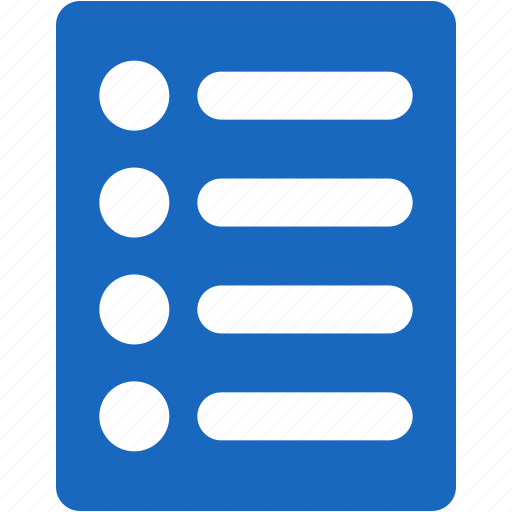
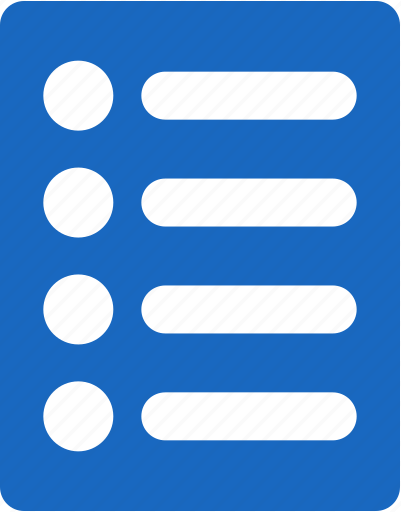
Continue working on the Todo list

diff --git a/react-app/src/components/todoList/Todo.scss b/react-app/src/components/todoList/Todo.scss
@@ -1,0 +1,131 @@
+@import url("https://fonts.googleapis.com/css2?family=Roboto+Slab:wght@100..900&display=swap");
+@import "./mixins.scss";
+
+$white: white;
+$mp0505: 0 5px 0 5px;
+
+
+button {
+  background-color: $white;
+  padding: 0;
+  cursor: pointer;
+}
+
+img {
+  object-fit: contain;
+}
+
+hr {
+  border: 0.5px solid rgb(158, 158, 158);
+}
+
+input[type="checkbox"] {
+  cursor: pointer;
+}
+
+input,
+button {
+  font-family: -apple-system, BlinkMacSystemFont, "Segoe UI", Roboto,
+    "Helvetica Neue", Arial, "Noto Sans", sans-serif;
+  border: none;
+}
+
+.todo {
+  font-family: -apple-system, BlinkMacSystemFont, "Segoe UI", Roboto,
+    "Helvetica Neue", Arial, "Noto Sans", sans-serif;
+  @include todo_styles;
+
+  &__header {
+    @include header_styles;
+  }
+
+  .add-task,
+  .filter {
+    background-color: $white;
+  }
+
+  .add-task {
+    width: 60%;
+    padding: 10px 0 10px 0;
+    margin-bottom: 50px;
+
+    @include df_jcc_aic;
+
+    &__icon {
+      width: 30px;
+      height: 30px;
+      margin-left: 0.5rem;
+    }
+
+    &__text {
+      height: 100%;
+      width: max(100%);
+      margin-left: 20px;
+      padding: 0 20px 0 20px;
+      font-family: "Roboto Slab", serif;
+
+      &:focus {
+        outline: none;
+      }
+    }
+
+    &__btn {
+      margin: 0 10px 0 0;
+      @include df_jcc_aic;
+    }
+  }
+
+  .filter {
+    @include df_aic;
+    justify-content: space-between;
+
+    .filter-buttons {
+      @include df_jcc_aic;
+
+      button {
+        color: rgb(68, 140, 207);
+        margin: $mp0505;
+        padding: $mp0505;
+        border-radius: 3px;
+        font-weight: 600;
+        transition: background-color 0.3s linear;
+
+        &:hover {
+          background-color: rgb(184, 184, 184);
+          transition: background-color 0.5s linear;
+        }
+      }
+    }
+  }
+
+  .task-list {
+    &__item {
+      padding-right: 8px;
+      @include df_aic;
+
+      .task-title {
+        margin-left: 10px;
+        overflow-y: scroll;
+        -ms-overflow-style: none; /* IE and Edge */
+        scrollbar-width: none; /* Firefox */
+
+        &::-webkit-scrollbar {
+          display: none;
+        }
+      }
+
+      .delete-btn {
+        opacity: 0.4;
+        margin-left: auto;
+        transition: all 0.3s linear;
+        @include df_aic;
+      }
+
+      &:hover {
+        .delete-btn {
+          opacity: 1;
+        }
+      }
+    }
+  }
+}

diff --git a/react-app/src/components/todoList/Todo-add-task.jsx b/react-app/src/components/todoList/Todo-add-task.jsx
@@ -4,20 +4,21 @@ const TodoAddTask = () => {
   return (
     <div className="add-task">
       <img
-        src="https://cdn2.iconfinder.com/data/icons/toolbar-signs-2/512/list_text_document_book_schedule-512.png"
+        src={require("../../images/todoList.png")}
         alt="Todo list icon"
-        style={{ width: "40px", height: "30px" }}
+        className="add-task__icon"
       />
 
       <input
         type="text"
-        className="add-text"
+        className="add-task__text"
+        id="add-task-text"
         placeholder="Enter your next task"
       />
 
-      <button className="add-btn">
+      <button className="add-task__btn">
         <img
-          src="https://banner2.cleanpng.com/20180409/gye/kisspng-computer-icons-symbol-icon-design-google-plus-5acb0027158c40.8641644415232532870883.jpg"
+          src={require("../../images/add-task_icon.jpg")}
           alt="white plus icon"
           style={{ width: "20px", height: "20px" }}
         />
@@ -26,4 +27,20 @@ const TodoAddTask = () => {
   );
 };
 
+
 export default TodoAddTask;
+
+// document.getElementById("add-task-btn").addEventListener("click", function () {
+
+//   document.querySelectorAll(".buttonClass").forEach((item) => {
+//     item.addEventListener("click", (e) => {
+//       change();
+//     });
+//   });
+// });
+
+// function change() {
+//   document.querySelectorAll("#b2").forEach((item) => {
+//     item.parentNode.style = "text-decoration: line-through;";
+//   });
+// }

diff --git a/react-app/src/components/todoList/Todo-item.jsx b/react-app/src/components/todoList/Todo-item.jsx
@@ -2,34 +2,34 @@ import React from "react";
 
 const TodoItem = ({ title, completed }) => {
   return (
-    <div className="task-item">
+    <div className="task-list__item">
       <input type="checkbox" defaultChecked={completed} />
       <span
+        className="task-title"
         style={{
-          marginLeft: "10px",
-          textDecoration: completed === true ? "line-through" : "none",
+          textDecoration: completed ? "line-through" : "none",
         }}
       >
         {title}
       </span>
 
-      <button>
+      <button className="delete-btn">
         <img
-          src="https://static.vecteezy.com/system/resources/previews/026/529/438/non_2x/simple-red-cross-mark-icon-vector.jpg"
+          src={require("../../images/red-cross-circle_icon.png")}
           alt="red cross icon"
-          style={{ width: "20px", height: "20px" }}
+          style={{ width: "15px", height: "15px", borderRadius: "50%"}}
         />
       </button>
     </div>
   );
 };
 
-function isCompleted(completed) {
-  if (completed === true) {
-    return "line-through";
-  } else {
-    return "none";
-  }
-}
-
 export default TodoItem;
+
+// function isCompleted(completed) {
+//   if (completed === true) {
+//     return "line-through";
+//   } else {
+//     return "none";
+//   }
+// }

diff --git a/react-app/src/components/todoList/mixins.scss b/react-app/src/components/todoList/mixins.scss
@@ -1,0 +1,34 @@
+$flex: flex;
+$center: center;
+$white: white;
+
+@mixin df_jcc_aic {
+  display: $flex;
+  justify-content: $center;
+  align-items: $center;
+}
+
+@mixin df_aic {
+  display: $flex;
+  align-items: $center;
+}
+
+@mixin todo_styles {
+    
+  width: 100vw;
+  height: 100vh;
+  background: linear-gradient(to top, #00c6fb 0%, #005bea 100%);
+
+  @include df_aic;
+  flex-direction: column;
+}
+
+@mixin header_styles {
+    font-size: 3rem;
+    font-weight: 300;
+    letter-spacing: 10px;
+    padding-top: 1rem;
+
+    text-align: $center;
+    color: $white;
+}

diff --git a/react-app/src/components/todoList/Todo-List.jsx b/react-app/src/components/todoList/Todo-List.jsx
@@ -1,5 +1,5 @@
 import React from "react";
-import "./Todo.css";
+import "./Todo.scss";
 import TodoAddTask from "./Todo-add-task";
 import TodoFilters from "./Todo-filters";
 import TodoItem from "./Todo-item";
@@ -20,6 +20,7 @@ const TodoList = () => {
           width: "60%",
           backgroundColor: "white",
           padding: ".5em 0 .6rem 0",
+          borderRadius: "2px",
         }}
       >
         {/* Filters */}

diff --git a/react-app/src/index.js b/react-app/src/index.js
@@ -1,6 +1,6 @@
 import React from 'react';
 import ReactDOM from 'react-dom/client';
-import './index.css';
+import './index.scss';
 import App from './App';
 
 const root = ReactDOM.createRoot(document.getElementById('root'));

diff --git a/react-app/src/components/todoList/Todo-header.jsx b/react-app/src/components/todoList/Todo-header.jsx
@@ -3,7 +3,7 @@ import React from "react";
 const TodoHeader = () => {
   return (
     <div>
-      <h1 className="header">TODO LIST</h1>
+      <h1 className="todo__header">TODO LIST</h1>
     </div>
   );
 };

diff --git a/react-app/src/App.jsx b/react-app/src/App.jsx
@@ -1,4 +1,3 @@
-import Example from "./components/Example";
 import TodoList from "./components/todoList/Todo-List";
 
 function App() {
